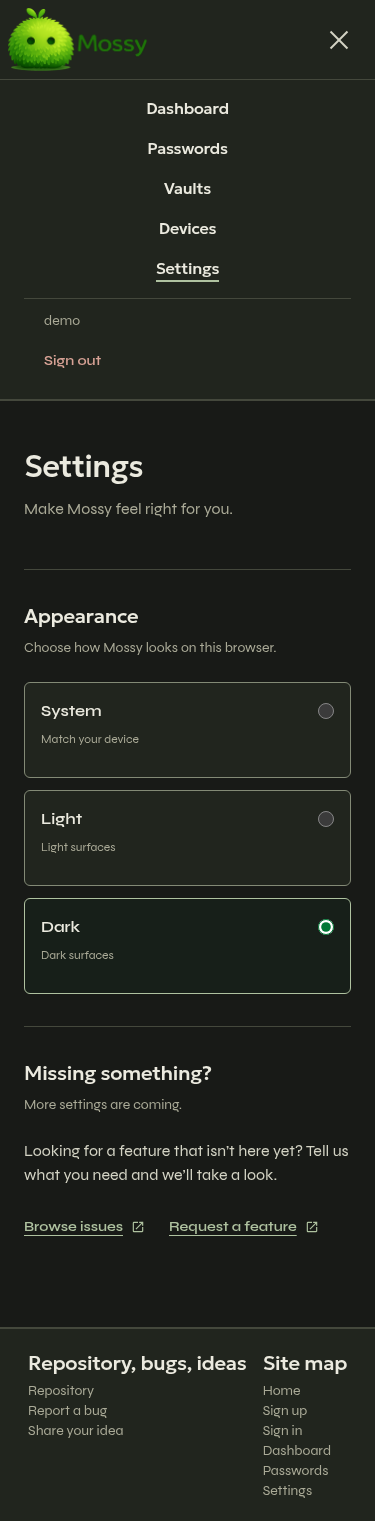
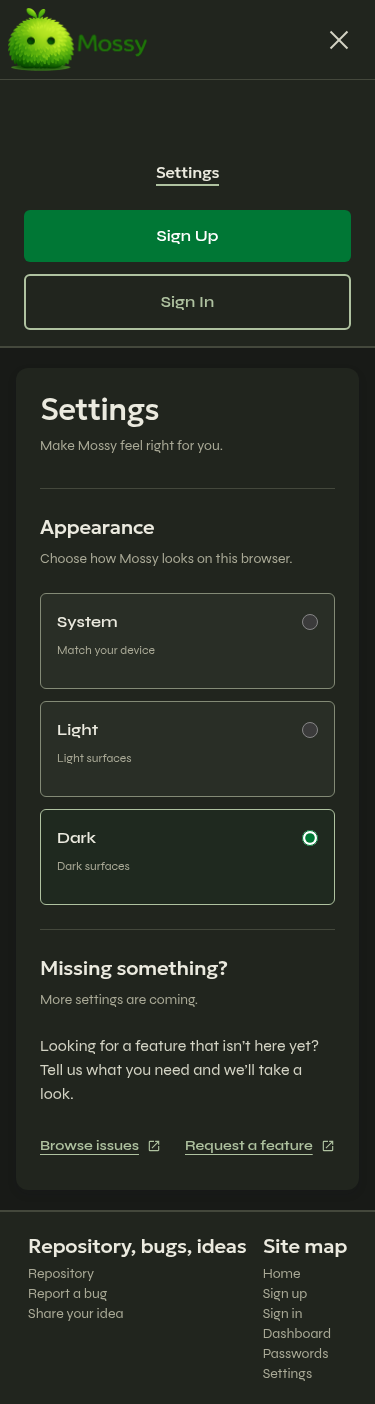
fix(frontend): match Settings to the app card layout

diff --git a/mossy-frontend/src/routes/Settings.tsx b/mossy-frontend/src/routes/Settings.tsx
@@ -21,127 +21,130 @@ export default function Settings() {
     const persistenceError = useThemeStore((state) => state.persistenceError);
 
     return (
-        <div className="mx-auto w-full max-w-4xl px-6 py-12 sm:px-8 sm:py-16">
-            <header className="mb-12">
-                <h1 className="text-3xl sm:text-4xl">Settings</h1>
-                <p className="mt-3 text-fg-muted">
-                    Make Mossy feel right for you.
-                </p>
-            </header>
-            <section
-                aria-labelledby="appearance-heading"
-                className="border-t border-border py-8 sm:py-10"
-            >
-                <div className="grid gap-6 sm:grid-cols-[1fr_2fr] sm:gap-10">
-                    <div>
-                        <h2 id="appearance-heading" className="text-xl">
-                            Appearance
-                        </h2>
-                        <p
-                            id="appearance-description"
-                            className="mt-2 text-sm text-fg-muted"
-                        >
-                            Choose how Mossy looks on this browser.
-                        </p>
-                    </div>
-                    <div>
-                        <fieldset aria-describedby="appearance-description">
-                            <legend className="sr-only">Theme</legend>
-                            <div className="grid gap-3 sm:grid-cols-3">
-                                {appearances.map(
-                                    ({ value, label, description }) => (
-                                        <label
-                                            key={value}
-                                            className="flex min-h-24 cursor-pointer flex-col gap-2 rounded-md border border-border-strong bg-surface px-4 py-4 has-checked:border-fg-brand has-checked:bg-brand/5 focus-within:ring-2 focus-within:ring-fg-brand focus-within:ring-offset-2 focus-within:ring-offset-surface-page"
-                                        >
-                                            <span className="flex items-center justify-between gap-3 font-semibold">
-                                                {label}
-                                                <input
-                                                    type="radio"
-                                                    name="theme"
-                                                    value={value}
-                                                    aria-label={label}
-                                                    aria-describedby={
+        <div className="w-full px-4 py-5">
+            <div className="mx-auto w-full max-w-4xl rounded-xl bg-surface p-6 shadow-card sm:p-8">
+                <header className="mb-8">
+                    <h1 className="text-3xl">Settings</h1>
+                    <p className="mt-2 text-sm text-fg-muted">
+                        Make Mossy feel right for you.
+                    </p>
+                </header>
+                <section
+                    aria-labelledby="appearance-heading"
+                    className="border-t border-border py-6 sm:py-8"
+                >
+                    <div className="grid gap-6 md:grid-cols-[1fr_2fr] md:gap-10">
+                        <div>
+                            <h2 id="appearance-heading" className="text-xl">
+                                Appearance
+                            </h2>
+                            <p
+                                id="appearance-description"
+                                className="mt-2 text-sm text-fg-muted"
+                            >
+                                Choose how Mossy looks on this browser.
+                            </p>
+                        </div>
+                        <div>
+                            <fieldset aria-describedby="appearance-description">
+                                <legend className="sr-only">Theme</legend>
+                                <div className="grid gap-3 sm:grid-cols-3">
+                                    {appearances.map(
+                                        ({ value, label, description }) => (
+                                            <label
+                                                key={value}
+                                                className="flex min-h-24 cursor-pointer flex-col gap-2 rounded-md border border-border-strong bg-surface-subtle px-4 py-4 has-checked:border-fg-brand has-checked:bg-brand/5 focus-within:ring-2 focus-within:ring-fg-brand focus-within:ring-offset-2 focus-within:ring-offset-surface"
+                                            >
+                                                <span className="flex items-center justify-between gap-3 font-semibold">
+                                                    {label}
+                                                    <input
+                                                        type="radio"
+                                                        name="theme"
+                                                        value={value}
+                                                        aria-label={label}
+                                                        aria-describedby={
+                                                            'theme-' +
+                                                            value +
+                                                            '-description'
+                                                        }
+                                                        checked={
+                                                            preference === value
+                                                        }
+                                                        onChange={() =>
+                                                            setPreference(value)
+                                                        }
+                                                        className="h-4 w-4 cursor-pointer accent-brand"
+                                                    />
+                                                </span>
+                                                <span
+                                                    id={
                                                         'theme-' +
                                                         value +
                                                         '-description'
                                                     }
-                                                    checked={
-                                                        preference === value
-                                                    }
-                                                    onChange={() =>
-                                                        setPreference(value)
-                                                    }
-                                                    className="h-4 w-4 cursor-pointer accent-brand"
-                                                />
-                                            </span>
-                                            <span
-                                                id={
-                                                    'theme-' +
-                                                    value +
-                                                    '-description'
-                                                }
-                                                className="text-xs text-fg-muted"
-                                            >
-                                                {description}
-                                            </span>
-                                        </label>
-                                    )
-                                )}
-                            </div>
-                        </fieldset>
-                        {persistenceError && (
-                            <p
-                                role="status"
-                                className="mt-3 text-sm text-fg-danger"
-                            >
-                                Applied for this visit. This browser couldn’t
-                                save your choice.
-                            </p>
-                        )}
-                    </div>
-                </div>
-            </section>
-            <section
-                aria-labelledby="feedback-heading"
-                className="border-t border-border py-8 sm:py-10"
-            >
-                <div className="grid gap-6 sm:grid-cols-[1fr_2fr] sm:gap-10">
-                    <div>
-                        <h2 id="feedback-heading" className="text-xl">
-                            Missing something?
-                        </h2>
-                        <p className="mt-2 text-sm text-fg-muted">
-                            More settings are coming.
-                        </p>
-                    </div>
-                    <div>
-                        <p className="max-w-lg text-fg-secondary">
-                            Looking for a feature that isn’t here yet? Tell us
-                            what you need and we’ll take a look.
-                        </p>
-                        <div className="mt-5 flex flex-wrap items-center gap-x-6 gap-y-4">
-                            <a
-                                href={projectIssuesUrl}
-                                target="_blank"
-                                rel="noopener noreferrer"
-                                className="inline-flex min-h-10 items-center gap-2 rounded-sm text-sm font-semibold text-fg-brand underline underline-offset-4"
-                            >
-                                Browse issues <MdOpenInNew aria-hidden="true" />
-                            </a>
-                            <a
-                                href={featureRequestUrl}
-                                target="_blank"
-                                rel="noopener noreferrer"
-                                className="inline-flex min-h-10 items-center gap-2 rounded-sm text-sm font-semibold text-fg-brand underline underline-offset-4"
-                            >
-                                Request a feature{' '}
-                                <MdOpenInNew aria-hidden="true" />
-                            </a>
+                                                    className="text-xs text-fg-muted"
+                                                >
+                                                    {description}
+                                                </span>
+                                            </label>
+                                        )
+                                    )}
+                                </div>
+                            </fieldset>
+                            {persistenceError && (
+                                <p
+                                    role="status"
+                                    className="mt-3 text-sm text-fg-danger"
+                                >
+                                    Applied for this visit. This browser
+                                    couldn’t save your choice.
+                                </p>
+                            )}
                         </div>
                     </div>
-                </div>
-            </section>
+                </section>
+                <section
+                    aria-labelledby="feedback-heading"
+                    className="border-t border-border pt-6 sm:pt-8"
+                >
+                    <div className="grid gap-6 md:grid-cols-[1fr_2fr] md:gap-10">
+                        <div>
+                            <h2 id="feedback-heading" className="text-xl">
+                                Missing something?
+                            </h2>
+                            <p className="mt-2 text-sm text-fg-muted">
+                                More settings are coming.
+                            </p>
+                        </div>
+                        <div>
+                            <p className="max-w-lg text-fg-secondary">
+                                Looking for a feature that isn’t here yet? Tell
+                                us what you need and we’ll take a look.
+                            </p>
+                            <div className="mt-5 flex flex-wrap items-center gap-x-6 gap-y-4">
+                                <a
+                                    href={projectIssuesUrl}
+                                    target="_blank"
+                                    rel="noopener noreferrer"
+                                    className="inline-flex min-h-10 items-center gap-2 rounded-sm text-sm font-semibold text-fg-brand underline underline-offset-4"
+                                >
+                                    Browse issues{' '}
+                                    <MdOpenInNew aria-hidden="true" />
+                                </a>
+                                <a
+                                    href={featureRequestUrl}
+                                    target="_blank"
+                                    rel="noopener noreferrer"
+                                    className="inline-flex min-h-10 items-center gap-2 rounded-sm text-sm font-semibold text-fg-brand underline underline-offset-4"
+                                >
+                                    Request a feature{' '}
+                                    <MdOpenInNew aria-hidden="true" />
+                                </a>
+                            </div>
+                        </div>
+                    </div>
+                </section>
+            </div>
         </div>
     );
 }

diff --git a/docs/screenshots/dark-theme/README.md b/docs/screenshots/dark-theme/README.md
@@ -20,7 +20,7 @@ Additional states:
 
 - [Account menu with keyboard focus](account-menu-dark.png)
 - [Mobile Settings](settings-mobile-dark.png)
-- [Signed-in mobile navigation](mobile-menu-dark.png)
+- [Mobile navigation](mobile-menu-dark.png)
 - [Password entry](password-entry-dark.png)
 - [PIN modal](pin-modal-dark.png)
 - [QR modal, Dark](qr-modal-dark.png) and [Light](qr-modal-light.png)
